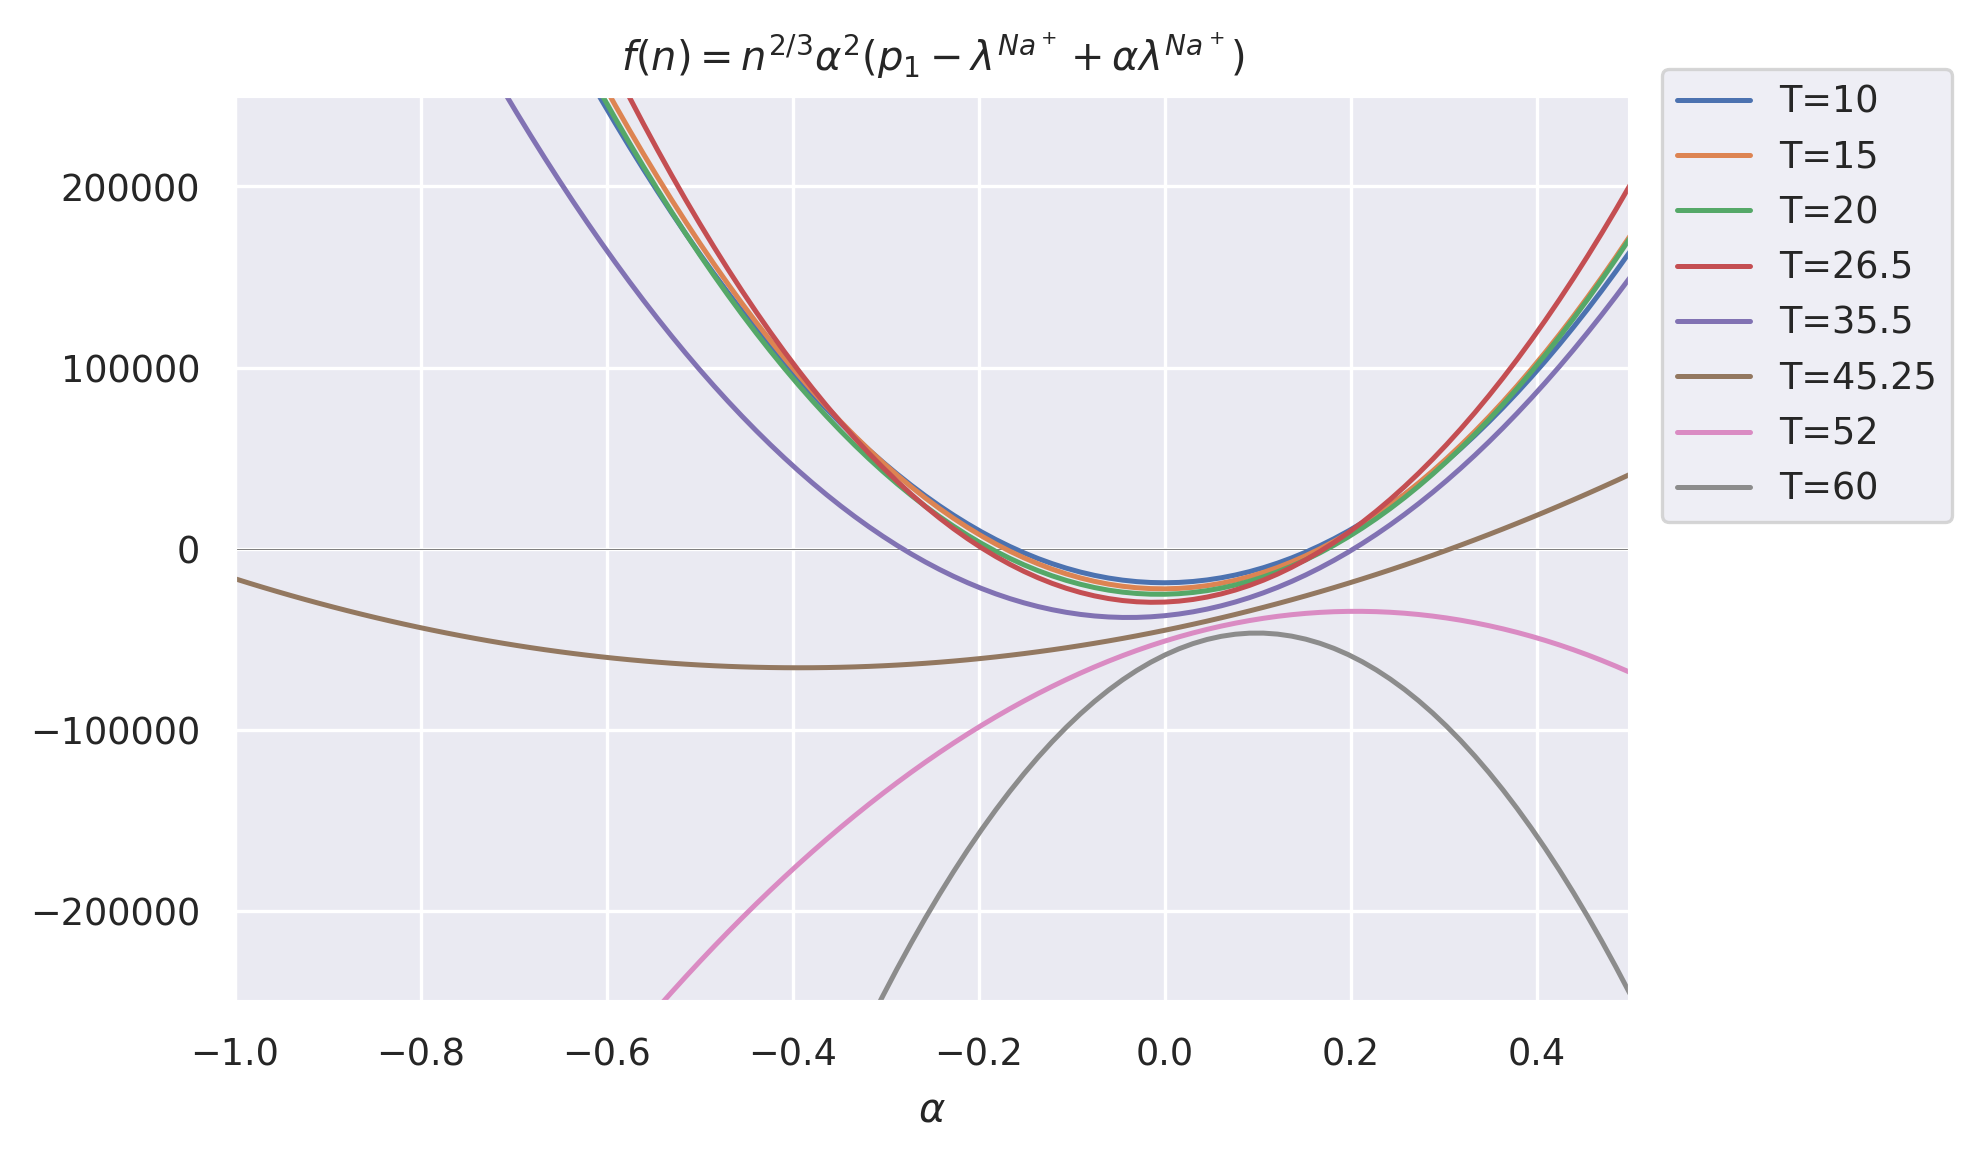
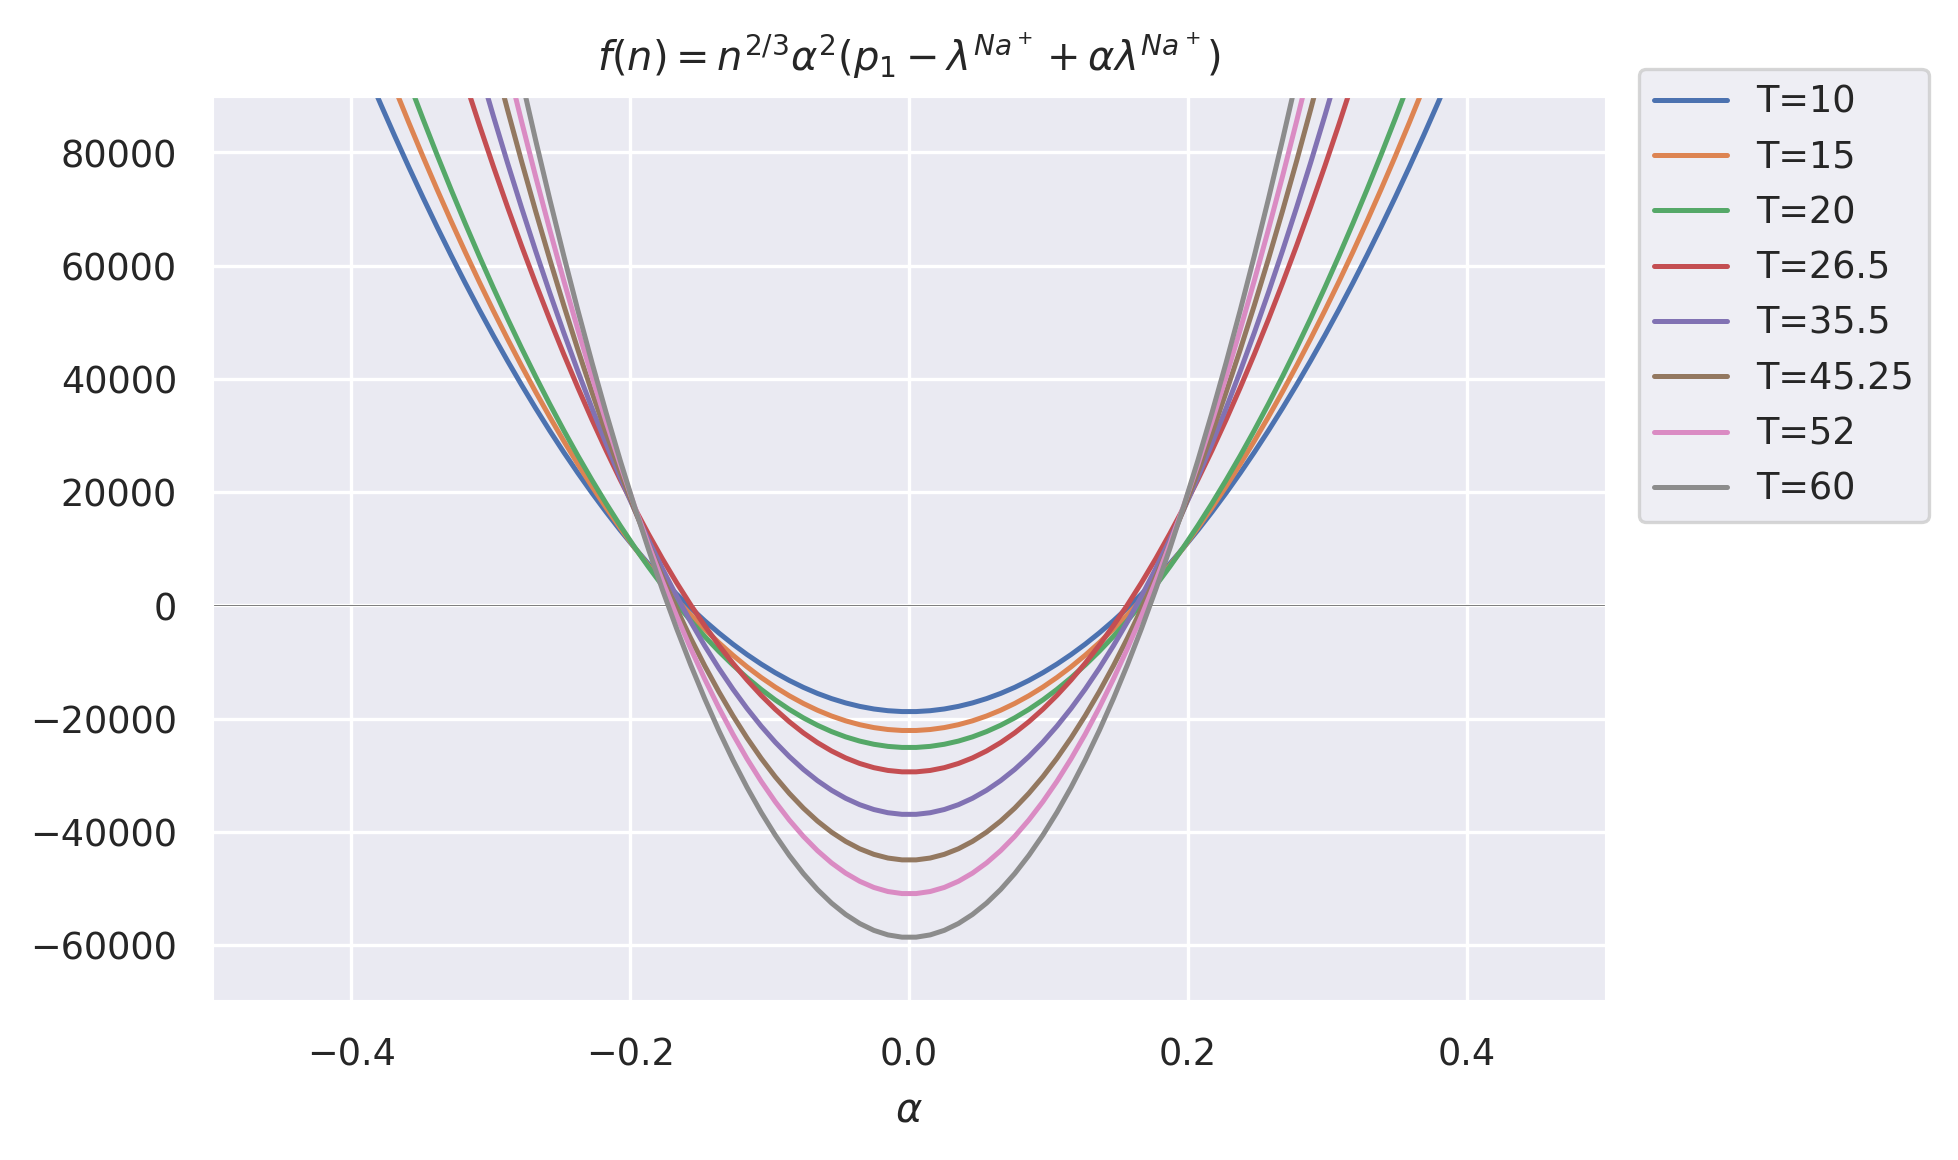
arreglé alfa

diff --git a/calculos.py b/calculos.py
@@ -107,7 +107,7 @@ for T in Temps:
 
     n,err_n = leastsq(func=f,x0=T) #f=funcion a buscar raiz, T=valor al partir del cual itera posibles soluciones
     
-    lambda_na= 22.24+1.135*(T**3)
+    lambda_na= 22.24+1.135*T
     err_lambda_na= abs(3*1.135*T**2)*error_temp
     
     lambda_na_lista.append(lambda_na)
@@ -385,6 +385,7 @@ plt.savefig('figuras/kvsCs_solo.png',dpi=300,bbox_inches='tight')
 #$$$$$$$$$$$$$$$$$$$$$$$$$$$$$$$$$$$$$$$$$$$$$$$$$$$$$$$$$$$$
 #$$$$$$$$$$$$$$$$$$$$$$$$$$$$$$$$$$$$$$$$$$$$$$$$$$$$$$$$$$$$
 
+
 # Y=a*X^2+b*X+c
 # 0<alfa<1  es grado de ionizacion == relacion entre ionizado y no ionizado
 
@@ -437,12 +438,12 @@ for i in range(len(Temps)):
         print(f"{Temps[i]:<8}{'no raiz real':<15}")
 
 #Reporte
-df_reporte['alfa']= Reporte_valor(alpha_lista+[np.nan]*2,err_alpha_lista+[np.nan]*2)
+df_reporte['alfa']= Reporte_valor(alpha_lista,err_alpha_lista)
 
 #%%
 #Figuras : la cuadratica, con raiz=alfa
 fig,ax =plt.subplots()
-minimox,maximox=-1,0.5
+minimox,maximox=-0.5,0.5
 for i in range(len(Temps)):
     n=n_lista[i]
     p1=p1_lista[i]
@@ -464,7 +465,7 @@ for i in range(len(Temps)):
         label=f"T={Temps[i]}"
     ).set(
         xlim=[minimox,maximox],
-        ylim=[-.25E6,.25E6]
+        ylim=[-7E4,9E4]
     )
     plt.hlines(xmin=minimox,xmax=maximox,y=0,color='grey',zorder=1,linewidth=0.2)
 ax.set(
